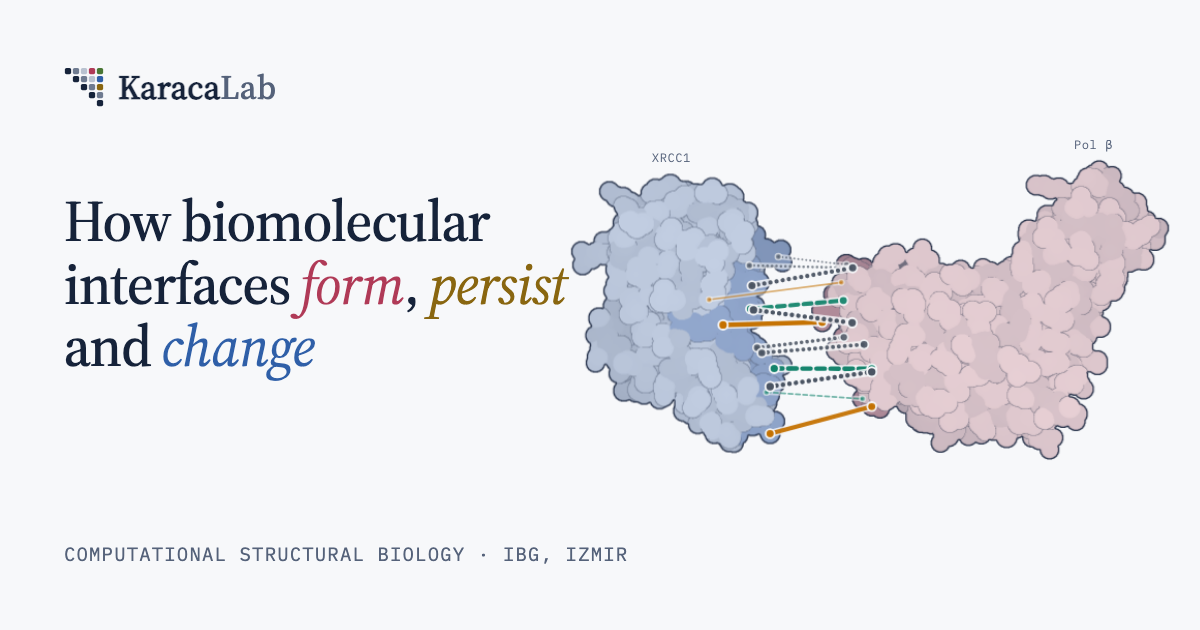
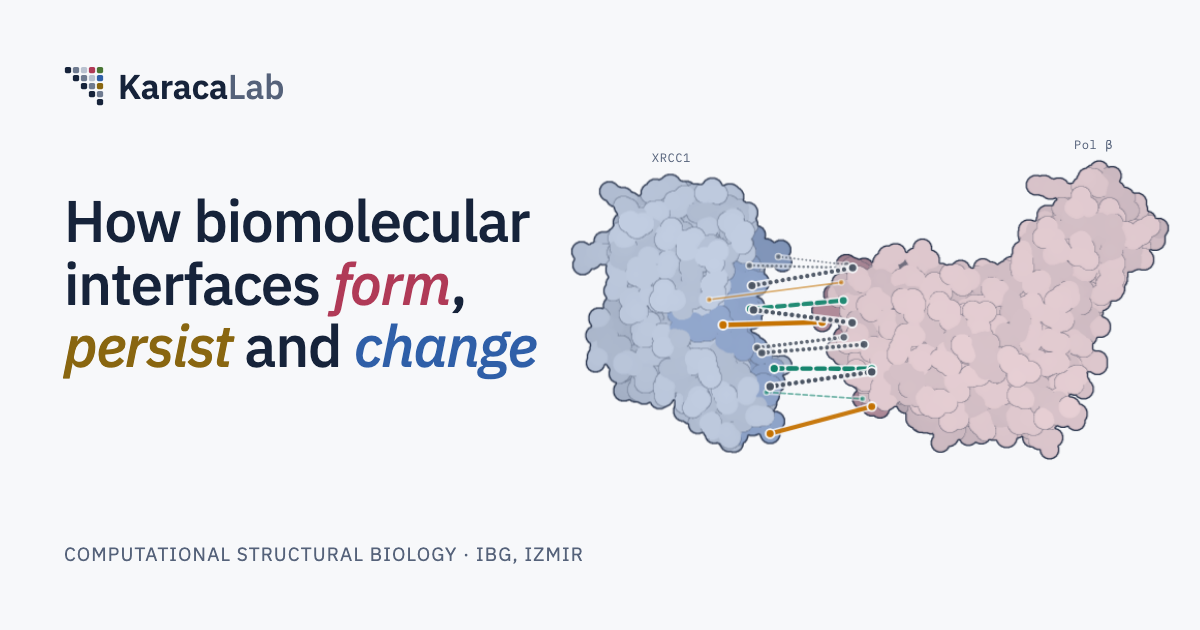
Use IBM Plex Sans throughout; drop Source Serif 4 and IBM Plex Mono

diff --git a/index.html b/index.html
@@ -27,7 +27,7 @@
 <meta name="twitter:card" content="summary_large_image">
 <link rel="preconnect" href="https://fonts.googleapis.com">
 <link rel="preconnect" href="https://fonts.gstatic.com" crossorigin>
-<link rel="stylesheet" href="https://fonts.googleapis.com/css2?family=Source+Serif+4:ital,opsz,wght@0,8..60,400;0,8..60,500;0,8..60,600;1,8..60,400&family=IBM+Plex+Sans:ital,wght@0,400;0,500;0,600;1,400&family=IBM+Plex+Mono:wght@400;500&display=swap">
+<link rel="stylesheet" href="https://fonts.googleapis.com/css2?family=IBM+Plex+Sans:ital,wght@0,400;0,500;0,600;1,400;1,500&display=swap">
 <script type="application/ld+json">
 {"@context":"https://schema.org","@graph":[
  {"@type":"ResearchOrganization","@id":"https://csb-karacalab.github.io/#lab","url":"https://csb-karacalab.github.io/","logo":"https://csb-karacalab.github.io/apple-touch-icon.png","name":"KaracaLab","alternateName":"Computational Structural Biology Lab, Izmir Biomedicine and Genome Center",
@@ -53,9 +53,7 @@
   --c1:#B03A57; --c2:#896610; --c3:#2F5FA8; --c4:#497634;
   --prot-a:#C3CFE3; --prot-a-if:#94AAD0; --prot-b:#E7CFD4; --prot-b-if:#C99CA8; --prot-edge:#1B2740;
   --int-hb:#12836B; --int-sb:#C47100; --int-hp:#4B5563;
-  --serif:"Source Serif 4", Georgia, "Times New Roman", serif;
   --sans:"IBM Plex Sans", ui-sans-serif, system-ui, -apple-system, "Segoe UI", sans-serif;
-  --mono:"IBM Plex Mono", ui-monospace, SFMono-Regular, Menlo, monospace;
   --yr:4.2rem; --maxw:1560px; --colgap:3.5rem;
 }
 @media (prefers-color-scheme: dark){
@@ -91,9 +89,9 @@ body{margin:0;background:var(--paper);color:var(--ink);font-family:var(--sans);f
 a{color:inherit;text-decoration-color:color-mix(in srgb,currentColor 35%,transparent);text-underline-offset:3px;text-decoration-thickness:1px;transition:color .15s,text-decoration-color .15s}
 a:hover{color:var(--navy);text-decoration-color:currentColor}
 a:focus-visible,button:focus-visible{outline:2px solid var(--navy);outline-offset:3px;border-radius:3px}
-h1,h2,h3{font-family:var(--serif);font-weight:500;color:var(--ink);margin:0;text-wrap:balance}
+h1,h2,h3{font-family:var(--sans);font-weight:500;letter-spacing:-.012em;color:var(--ink);margin:0;text-wrap:balance}
 p{margin:0;text-wrap:pretty}
-.label,.sub{font-family:var(--mono);font-size:.74rem;font-weight:400;letter-spacing:.08em;text-transform:uppercase;color:var(--ink-2)}
+.label,.sub{font-family:var(--sans);font-size:.76rem;font-weight:400;letter-spacing:.08em;text-transform:uppercase;color:var(--ink-2)}
 
 /* large desktop: slightly wider column and larger type so 1920px screens don't read small */
 
@@ -101,7 +99,7 @@ p{margin:0;text-wrap:pretty}
 body::before{content:"";position:fixed;inset:0 0 auto;height:env(safe-area-inset-top,0px);z-index:10;background:var(--paper)}
 header{position:sticky;top:env(safe-area-inset-top,0px);z-index:9;background:color-mix(in srgb,var(--paper) 90%,transparent);backdrop-filter:blur(8px);-webkit-backdrop-filter:blur(8px);border-bottom:1px solid var(--line)}
 .nav{display:flex;align-items:center;justify-content:space-between;gap:1.5rem;min-height:60px}
-.brand{display:inline-flex;align-items:center;gap:.55rem;font-family:var(--serif);font-size:1.25rem;font-weight:600;text-decoration:none;color:var(--ink);white-space:nowrap}
+.brand{display:inline-flex;align-items:center;gap:.55rem;font-family:var(--sans);font-size:1.25rem;font-weight:600;text-decoration:none;color:var(--ink);white-space:nowrap}
 .brand:hover{color:var(--ink)}
 .brand .mark{display:block;flex:none;width:1.6rem;height:1.6rem}
 .brand .lab{color:var(--ink-2);font-weight:500}
@@ -154,8 +152,8 @@ section{padding-block:4rem}
 
 /* interface illustration (canvas) */
 .iface-stage{position:relative}
-.iface-chain{position:absolute;transform:translate(-50%,-50%);font-family:var(--mono);font-size:.76rem;letter-spacing:.04em;color:var(--ink-2);white-space:nowrap;pointer-events:none}
-.iface-key{list-style:none;margin:.5rem 0 0;padding:0;display:flex;flex-wrap:wrap;justify-content:center;gap:.4rem 1.1rem;font-family:var(--mono);font-size:.8rem;color:var(--ink-2)}
+.iface-chain{position:absolute;transform:translate(-50%,-50%);font-family:var(--sans);font-size:.76rem;letter-spacing:.04em;color:var(--ink-2);white-space:nowrap;pointer-events:none}
+.iface-key{list-style:none;margin:.5rem 0 0;padding:0;display:flex;flex-wrap:wrap;justify-content:center;gap:.4rem 1.1rem;font-family:var(--sans);font-size:.8rem;color:var(--ink-2)}
 .iface-key li{display:inline-flex;align-items:center;gap:.45rem}
 .iface-key .kn{font-size:.72rem;margin-left:-.15rem}
 .iface-key svg{display:block;overflow:visible}
@@ -178,17 +176,17 @@ section{padding-block:4rem}
 @media (min-width:901px) and (max-width:1320px){.rmap-grid .rnode.n1 .rt,.rmap-grid .rnode.n3 .rt{min-width:0;max-width:12.5rem;font-size:1.25rem}.rmap-grid .rnode.n1 .rq,.rmap-grid .rnode.n3 .rq{min-width:0;max-width:12.5rem;font-size:.92rem}.rnode.n1 .rgroup,.rnode.n3 .rgroup{max-width:12.5rem}.rnode.n1{padding-right:1.4rem}.rnode.n3{padding-left:1.4rem}.rmap-grid .rback{white-space:normal;width:max-content;max-width:9.5rem;text-align:right;line-height:1.35}}
 .rnode.n2{grid-area:n2;align-items:center;text-align:center;padding:0 1rem 2rem;align-self:end}
 .rnode.n4{grid-area:n4;align-items:center;text-align:center;padding:2rem 1rem 0;align-self:start}
-.rdot{position:absolute;width:1.45rem;height:1.45rem;border-radius:50%;background:var(--cc);color:var(--paper);font-family:var(--mono);font-size:.7rem;font-weight:500;line-height:1.45rem;text-align:center;font-variant-numeric:tabular-nums}
+.rdot{position:absolute;width:1.45rem;height:1.45rem;border-radius:50%;background:var(--cc);color:var(--paper);font-family:var(--sans);font-size:.7rem;font-weight:500;line-height:1.45rem;text-align:center;font-variant-numeric:tabular-nums}
 .rnode.n1 .rdot{right:0;top:.8rem;transform:translate(50%,-50%)}
 .rnode.n3 .rdot{left:0;top:.8rem;transform:translate(-50%,-50%)}
 .rnode.n2 .rdot{left:50%;bottom:0;transform:translate(-50%,50%)}
 .rnode.n4 .rdot{left:50%;top:0;transform:translate(-50%,-50%)}
-.rt{font-family:var(--serif);font-size:1.4rem;font-weight:500;line-height:1.3;letter-spacing:-.005em;color:var(--ink);text-decoration:none;white-space:nowrap}
+.rt{font-family:var(--sans);font-size:1.4rem;font-weight:500;line-height:1.3;letter-spacing:-.005em;color:var(--ink);text-decoration:none;white-space:nowrap}
 .rt:hover,.rt:focus-visible{text-decoration:underline;text-decoration-thickness:1px;text-underline-offset:3px}
 .rq{margin:0;color:var(--ink-2);font-size:1rem;line-height:1.45;max-width:15rem;text-wrap:balance}
 .rnode.n2 .rq,.rnode.n4 .rq{max-width:none}
 .rchips{margin:.3rem 0 0;display:flex;flex-wrap:nowrap;gap:.3rem}
-.rmap .chip{font-family:var(--mono);font-size:.78rem;line-height:1.5;padding:.12rem .58rem;border-radius:999px;background:var(--ct);border:1px solid var(--ce);color:var(--cc);text-decoration:none;white-space:nowrap}
+.rmap .chip{font-family:var(--sans);font-size:.78rem;line-height:1.5;padding:.12rem .58rem;border-radius:999px;background:var(--ct);border:1px solid var(--ce);color:var(--cc);text-decoration:none;white-space:nowrap}
 .rmap .chip:hover,.rmap .chip:focus-visible{border-color:var(--cc)}
 .rmap .c1{--cc:var(--c1);--ct:var(--tint-1);--ce:var(--edge-1)} .rmap .c2{--cc:var(--c2);--ct:var(--tint-2);--ce:var(--edge-2)}
 .rmap .c3{--cc:var(--c3);--ct:var(--tint-3);--ce:var(--edge-3)} .rmap .c4{--cc:var(--c4);--ct:var(--tint-4);--ce:var(--edge-4)}
@@ -197,7 +195,7 @@ section{padding-block:4rem}
 .rmap-arrows .ah{fill:none;stroke:var(--ink-2);stroke-width:1.3;stroke-opacity:.7;stroke-linecap:round;stroke-linejoin:round}
 .rmap-arrows .back{stroke:var(--c4);stroke-opacity:.9;stroke-dasharray:4 4}
 .rmap-arrows .ah.back{stroke-dasharray:none}
-.rback{position:absolute;z-index:2;left:0;top:0;font-family:var(--mono);font-size:.76rem;letter-spacing:.02em;color:var(--c4);white-space:nowrap;transform:translate(-100%,-50%)}
+.rback{position:absolute;z-index:2;left:0;top:0;font-family:var(--sans);font-size:.76rem;letter-spacing:.02em;color:var(--c4);white-space:nowrap;transform:translate(-100%,-50%)}
 .rmap-foot{display:flex;flex-direction:column;align-items:center;gap:.7rem;margin-top:1.8rem}
 .rmap-foot .iface-key{justify-content:center;margin:0;gap:.5rem 2rem;row-gap:.55rem}
 .rmap-foot .iface-key .pscale{flex-basis:100%}
@@ -220,7 +218,7 @@ section{padding-block:4rem}
 .rnode.n3 .rq{min-width:min(13rem,100%)}
 .rgroup{align-items:center;flex-wrap:nowrap}
 .rnode.n1 .rgroup{justify-content:flex-end}
-.rglab{font-family:var(--mono);font-size:.76rem;letter-spacing:.02em;color:var(--ink-2);margin-right:.15rem}
+.rglab{font-family:var(--sans);font-size:.76rem;letter-spacing:.02em;color:var(--ink-2);margin-right:.15rem}
 .rgroup+.rgroup{margin-top:.15rem}
 @media (max-width:900px){.rnode.n1 .rgroup{justify-content:flex-start}.rgroup{flex-wrap:wrap}.rnode.n1 .rt,.rnode.n3 .rt{max-width:none}}
 @media (min-width:901px){.rnode.n1 .rgroup,.rnode.n3 .rgroup{flex-wrap:wrap;max-width:17.5rem;row-gap:.3rem}
@@ -236,14 +234,14 @@ section{padding-block:4rem}
 .rsums{display:grid;grid-template-columns:repeat(4,minmax(0,1fr));gap:1.25rem;margin-top:.4rem}
 .rsum{border-top:3px solid var(--cc);padding:.9rem .1rem 0;display:flex;flex-direction:column;gap:.55rem;min-width:0}
 .rsum h3{display:flex;align-items:flex-start;gap:.5rem;font-size:1.08rem;line-height:1.3;white-space:nowrap;text-wrap:nowrap}
-.rsum .num{display:inline-grid;place-items:center;flex:none;width:1.4rem;height:1.4rem;border-radius:50%;background:var(--cc);color:var(--paper);font-family:var(--mono);font-size:.74rem;margin-top:.05rem}
+.rsum .num{display:inline-grid;place-items:center;flex:none;width:1.4rem;height:1.4rem;border-radius:50%;background:var(--cc);color:var(--paper);font-family:var(--sans);font-size:.74rem;margin-top:.05rem}
 .rsum p{font-size:.9rem;line-height:1.55;color:var(--ink-2)}
-.rsum .pmlink{margin-top:auto;padding-top:.15rem;font-family:var(--mono);font-size:.74rem;color:var(--cc);text-decoration-color:color-mix(in srgb,var(--cc) 40%,transparent)}
+.rsum .pmlink{margin-top:auto;padding-top:.15rem;font-family:var(--sans);font-size:.74rem;color:var(--cc);text-decoration-color:color-mix(in srgb,var(--cc) 40%,transparent)}
 .rsum.c1{--ct:var(--tint-1);--ce:var(--edge-1)} .rsum.c2{--ct:var(--tint-2);--ce:var(--edge-2)} .rsum.c3{--ct:var(--tint-3);--ce:var(--edge-3)} .rsum.c4{--ct:var(--tint-4);--ce:var(--edge-4)}
 .rtags{display:flex;flex-direction:column;gap:.45rem;margin:.15rem 0 .2rem}
 .rtags .rgroup{display:flex;flex-wrap:wrap;align-items:center;gap:.32rem .28rem;margin:0}
 .rtags .rglab{flex-basis:100%;margin:0 0 -.05rem}
-.rsum .chip{font-family:var(--mono);font-size:.72rem;line-height:1.45;padding:.14rem .55rem;border-radius:999px;background:var(--ct);border:1px solid var(--ce);color:var(--cc);text-decoration:none;white-space:normal;max-width:100%;overflow-wrap:anywhere;text-align:left}
+.rsum .chip{font-family:var(--sans);font-size:.72rem;line-height:1.45;padding:.14rem .55rem;border-radius:999px;background:var(--ct);border:1px solid var(--ce);color:var(--cc);text-decoration:none;white-space:normal;max-width:100%;overflow-wrap:anywhere;text-align:left}
 .rsum .chip.wip{border-style:dashed;background:transparent}.rsum .chip .wipm{font-size:.9em}
 .rsum .chip:hover,.rsum .chip:focus-visible{border-color:var(--cc)}
 .rsum .pmlink:hover{color:var(--cc);text-decoration-color:currentColor}
@@ -254,7 +252,7 @@ section{padding-block:4rem}
 /* software */
 .tools{list-style:none;margin:0;padding:0;display:grid;grid-template-columns:repeat(6,minmax(0,1fr));gap:1px;background:var(--line);border:1px solid var(--line);border-radius:12px;overflow:hidden}
 .tools > li{grid-column:span 2;background:var(--surface);padding:1.2rem 1.25rem 1.3rem;display:flex;flex-direction:column;gap:.45rem;min-width:0}
-.tools .name{display:inline-flex;align-items:center;gap:.5rem;font-family:var(--mono);font-weight:500;font-size:.98rem;color:var(--ink)}
+.tools .name{display:inline-flex;align-items:center;gap:.5rem;font-family:var(--sans);font-weight:500;font-size:.98rem;color:var(--ink)}
 .tools .name::before{content:"";flex:none;width:.5rem;height:.5rem;border-radius:50%;background:var(--cc,var(--ink-2))}
 .tools .desc{font-size:.9rem;color:var(--ink-2);line-height:1.55}
 .tools .go{margin-top:auto;padding-top:.35rem;font-size:.9rem;display:flex;gap:.35rem 1.1rem;flex-wrap:wrap}
@@ -268,7 +266,7 @@ section{padding-block:4rem}
 .tut-links{list-style:none;margin:.8rem 0 0;padding:0;display:grid;gap:.6rem}
 .tut-links li{display:flex;flex-direction:column;gap:.1rem;font-size:.9rem}
 .tut-links a{font-weight:500}
-.tut-links span{font-family:var(--mono);font-size:.74rem;color:var(--ink-2)}
+.tut-links span{font-family:var(--sans);font-size:.74rem;color:var(--ink-2)}
 @media (max-width:900px){.tools{grid-template-columns:repeat(2,minmax(0,1fr))}.tools > li{grid-column:span 1}.tools > li:nth-child(4){grid-column:1/-1}}
 @media (max-width:820px){.tools > li.feat{grid-template-columns:1fr}}
 @media (max-width:560px){.tools{grid-template-columns:1fr}.tools > li,.tools > li:nth-child(n){grid-column:1/-1}.tools > li.feat{padding:1.25rem}}
@@ -289,7 +287,7 @@ section{padding-block:4rem}
 .member .nm{font-weight:600;font-size:.95rem;line-height:1.3}
 .member .rl{font-size:.85rem;color:var(--ink-2);margin-top:.35rem}
 .edu{list-style:none;margin:.45rem 0 0;padding:0;font-size:.85rem;line-height:1.45;color:var(--ink-2);display:grid;gap:.2rem}
-a.pid{display:inline-block;margin-top:.45rem;font-family:var(--mono);font-size:.72rem;color:var(--ink-2)}
+a.pid{display:inline-block;margin-top:.45rem;font-family:var(--sans);font-size:.72rem;color:var(--ink-2)}
 .member .rl a.pid{display:inline;margin:0;font-family:inherit;font-size:inherit}.member .rl .sep{margin:0;color:var(--line-2,var(--ink-2))}
 @media (max-width:640px){.members{grid-template-columns:1fr;gap:1.6rem}.member img{width:4.6rem;height:4.6rem}}
 .say{all:unset;display:inline-flex;align-items:center;gap:.45rem;cursor:pointer;font-family:var(--sans);font-size:.86rem;color:var(--ink-2);margin-top:.35rem;padding:.3rem .8rem .3rem .65rem;border:1px solid var(--line);border-radius:999px;background:var(--surface);transition:color .15s,border-color .15s;text-decoration:none}
@@ -302,7 +300,7 @@ a.pid{display:inline-block;margin-top:.45rem;font-family:var(--mono);font-size:.
 .list{list-style:none;margin:0;padding:0}
 .list li{display:grid;grid-template-columns:var(--yr) minmax(0,1fr);gap:1rem;padding-block:.65rem;border-bottom:1px solid var(--line);font-size:.95rem;line-height:1.45}
 .list li:last-child{border-bottom:none}
-.list .k{font-family:var(--mono);font-size:.74rem;color:var(--ink-2);padding-top:.12rem;font-variant-numeric:tabular-nums;white-space:nowrap}
+.list .k{font-family:var(--sans);font-size:.74rem;color:var(--ink-2);padding-top:.12rem;font-variant-numeric:tabular-nums;white-space:nowrap}
 .list .d,a.d{color:var(--ink-2)}
 .list .d{font-size:.85rem}
 .list .fn{font-weight:600;color:var(--ink)}
@@ -345,7 +343,7 @@ a.pid{display:inline-block;margin-top:.45rem;font-family:var(--mono);font-size:.
 .contact .invite{margin-top:.7rem;font-size:1.08rem;line-height:1.6;color:var(--ink-2)}
 .contact dl{display:grid;grid-template-columns:calc(var(--yr) + 1rem) minmax(0,1fr);margin:.3rem 0 0;font-size:.95rem;border-top:1px solid var(--line)}
 .contact dt,.contact dd{padding-block:.7rem;border-bottom:1px solid var(--line)}
-.contact dt{color:var(--ink-2);font-family:var(--mono);font-size:.74rem;padding-top:.92rem;padding-right:.5rem;text-transform:uppercase;letter-spacing:.08em}
+.contact dt{color:var(--ink-2);font-family:var(--sans);font-size:.74rem;padding-top:.92rem;padding-right:.5rem;text-transform:uppercase;letter-spacing:.08em}
 .contact dd{margin:0;min-width:0;overflow-wrap:anywhere}
 .copy{font:inherit;font-size:.74rem;margin-left:.6rem;padding:.12rem .55rem;border:1px solid var(--line);border-radius:6px;background:var(--surface);color:var(--ink-2);cursor:pointer;vertical-align:.05em}
 .copy:hover{color:var(--ink);border-color:var(--ink-2)}
